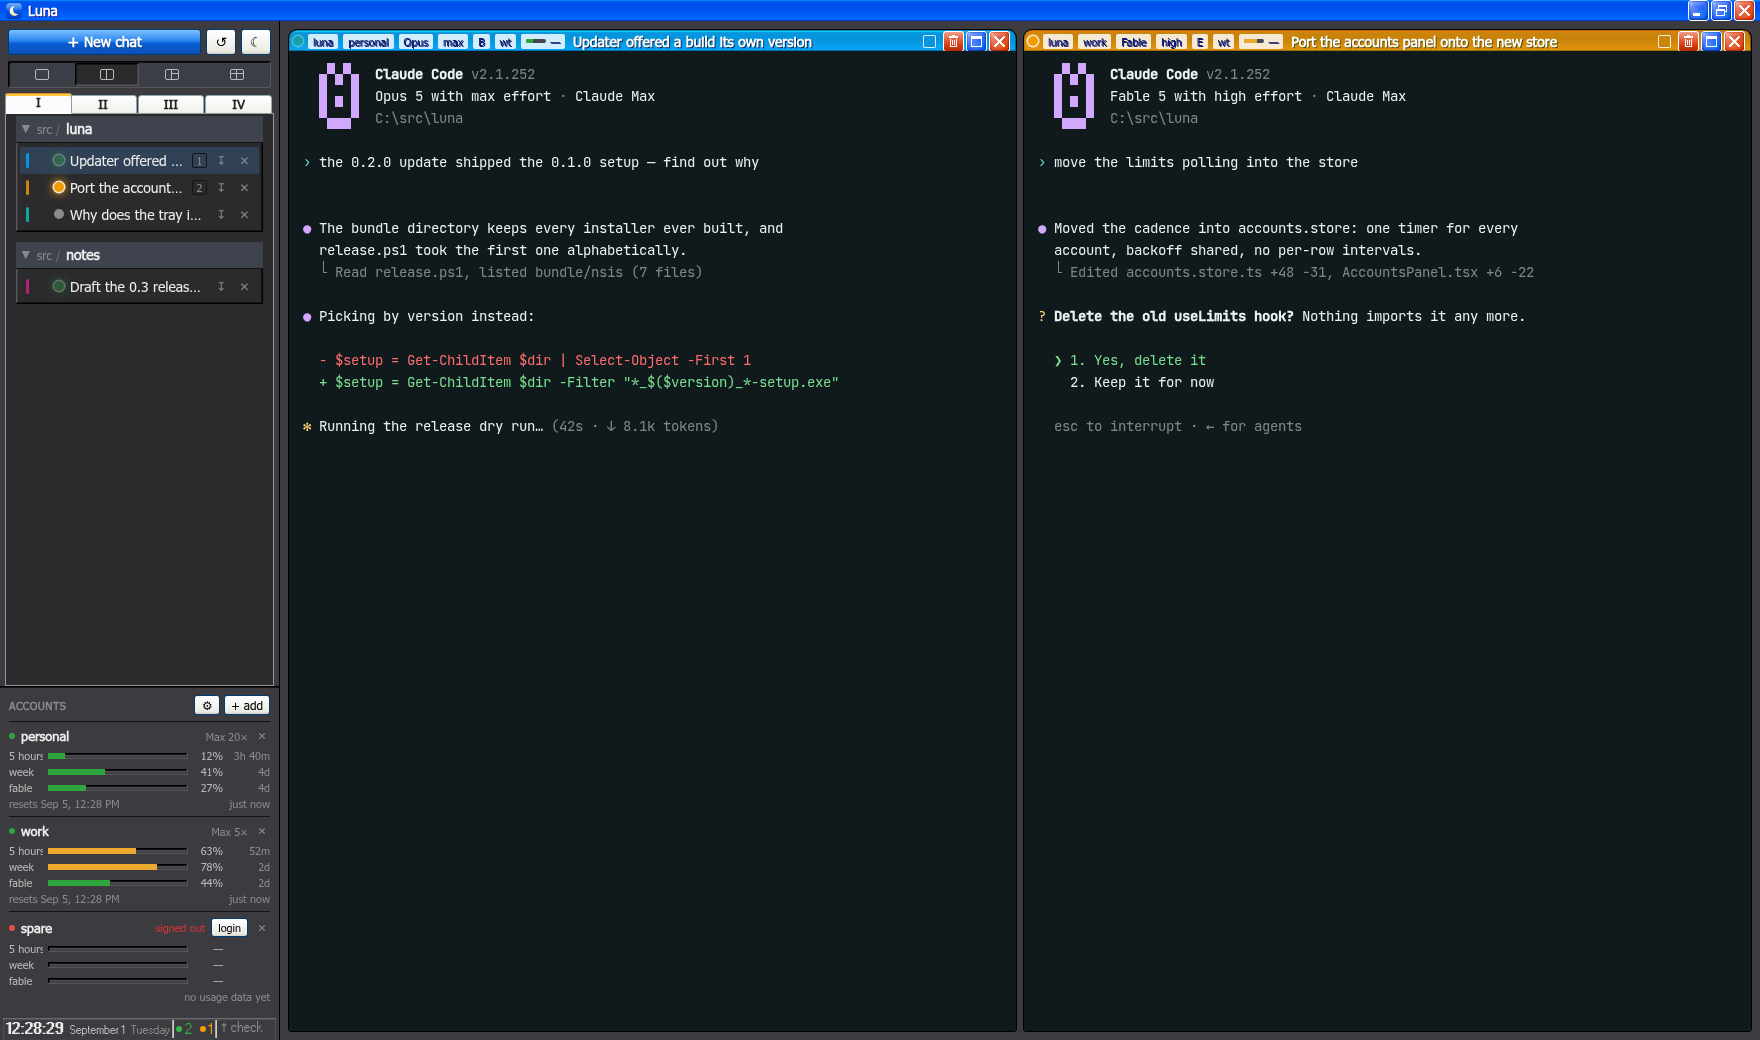
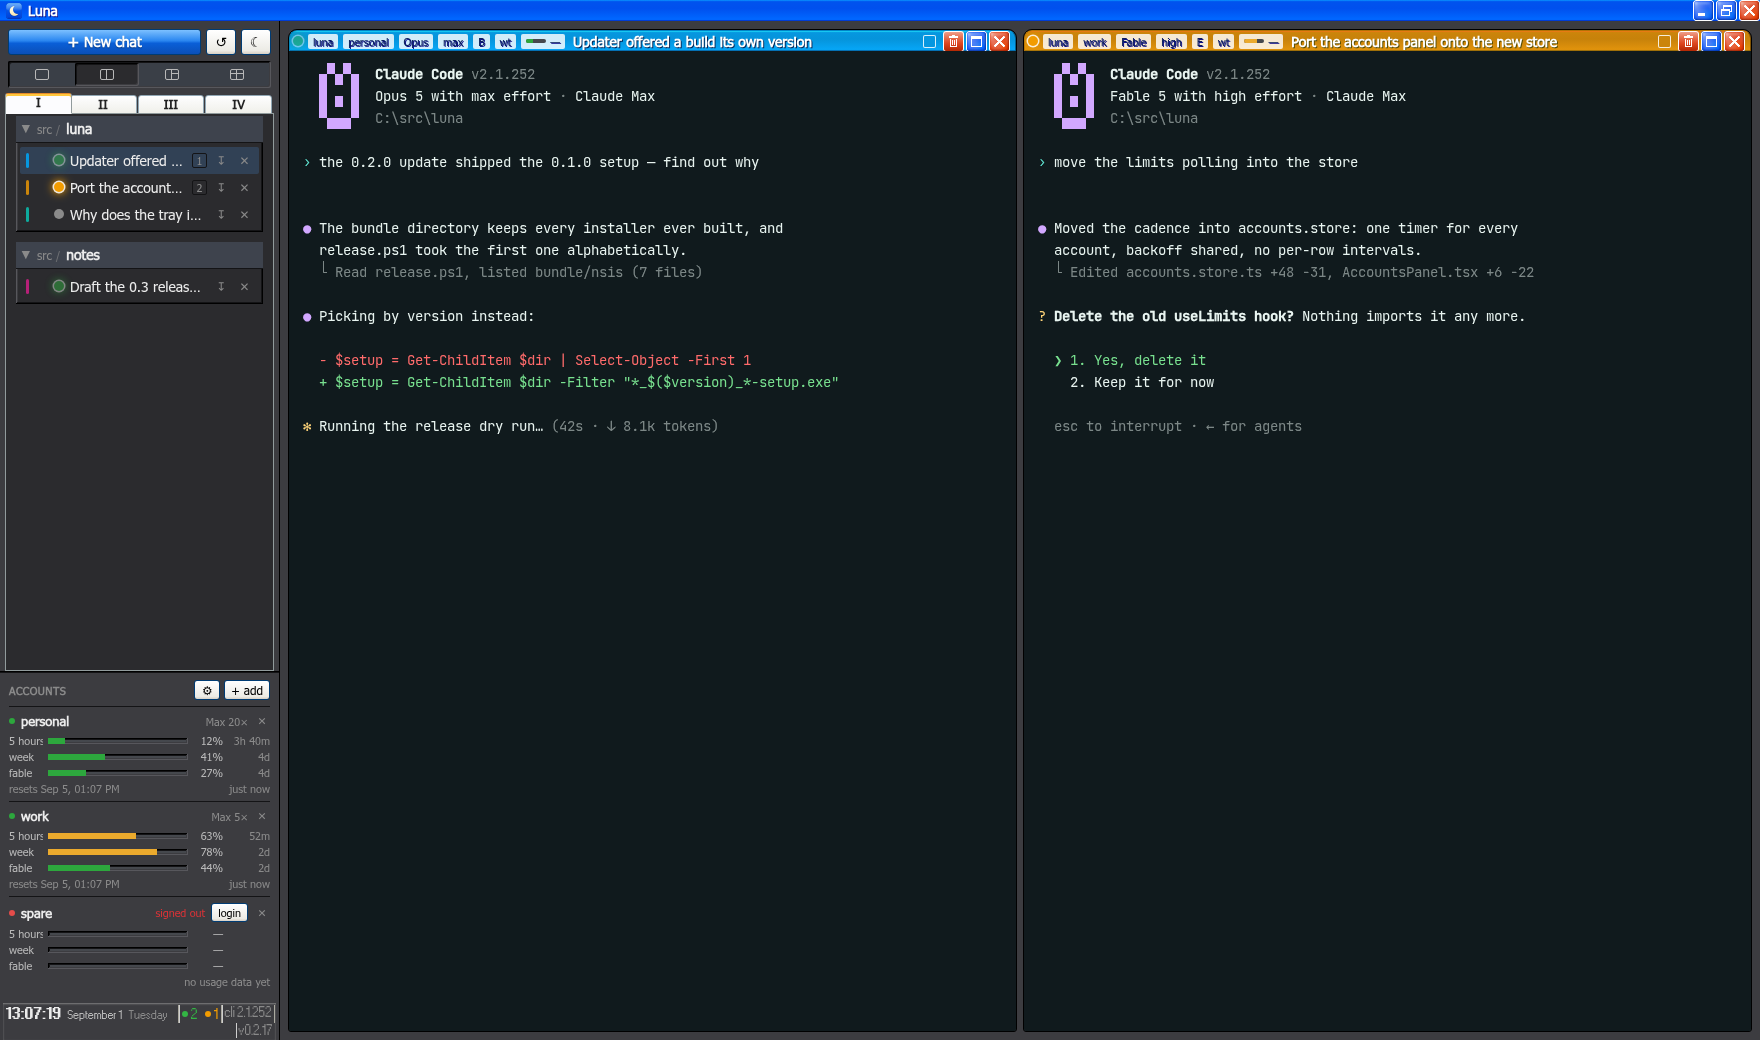
Let the fixture answer cli_status, and retake the screenshots
The CLI field draws nothing without a status to draw, so the shots had one
field fewer than the app they are pictures of — and the status bar in them
could not show the wrap it now does. The fixture answers that one command and
seeds the version readout; everything else still falls through to the caller's
own fallback, and none of it exists in a release build.

The screenshots come back with the corner controls and the wrapped footer.

Changed region(s): [[0.0, 0.6462, 0.1562, 1.0], [0.9375, 0.0, 1.0, 0.0308]]

diff --git a/src/dev/demo.ts b/src/dev/demo.ts
@@ -12,10 +12,12 @@
  */
 import type { Terminal as XTerm } from '@xterm/xterm';
 import type { Account, Chat, Folder } from '../shared/types';
+import type { CliStatusDto } from '../ipc/commands';
 import { useAccounts } from '../features/accounts/accounts.store';
 import { useChats } from '../features/chats/chats.store';
 import { useNewChat } from '../features/new-chat/newchat.store';
 import { usePanes, type Group, type Layout, type Slots } from '../features/panes/panes.store';
+import { useUpdates } from '../features/updates/updates.store';
 
 /** `?demo`, `?demo=dark`, `?demo=newchat`. */
 export type Scene = 'main' | 'dark' | 'newchat';
@@ -235,10 +237,39 @@ export function paint(term: XTerm, chatId: string) {
   if (screen) term.write(screen);
 }
 
+// ------------------------------------------------------------- ipc stand-in --
+
+const CLI: CliStatusDto = {
+  phase: 'idle',
+  version: '2.1.252',
+  path: 'C:\\src\\luna\\claude-cli\\versions\\2.1.252\\claude.exe',
+  latest: '2.1.252',
+  got: 0,
+  total: null,
+  error: null,
+  checkedAtMs: Date.now() - 42 * 60_000
+};
+
+let seeded = false;
+
+/**
+ * Answers the few commands whose emptiness would show. Without this the CLI
+ * field draws nothing in a browser, and the status bar in a screenshot has one
+ * fewer field than the app it is a picture of. Everything else keeps the
+ * caller's own fallback, and outside `?demo` this does nothing at all.
+ */
+export function answer<T>(cmd: string, fallback: T): T {
+  if (!seeded) return fallback;
+  return cmd === 'cli_status' ? (CLI as unknown as T) : fallback;
+}
+
 // ------------------------------------------------------------------ seed --
 
 export function seedDemo(scene: Scene) {
+  seeded = true;
   localStorage.setItem('luna.theme', scene === 'dark' ? 'dark' : 'light');
+  // The version readout, which in a browser has no app to ask.
+  useUpdates.setState({ current: '0.2.17', checkedAt: Date.now() - 12 * 60_000 });
 
   // The app polls for the account list and for each chat's status on a timer, and
   // in a browser both come back empty — which wiped the fixture a second after

diff --git a/src/ipc/commands.ts b/src/ipc/commands.ts
@@ -20,7 +20,13 @@ const SLOW_BUDGET_MS: Record<string, number> = {
 // In plain-browser dev (vite without tauri) all commands become no-ops so the
 // UI stays workable.
 async function call<T>(cmd: string, args?: Record<string, unknown>, fallback?: T): Promise<T> {
-  if (!tauriAvailable) return fallback as T;
+  if (!tauriAvailable) {
+    // The README fixture answers the handful of commands whose emptiness would
+    // show in a screenshot; without `?demo` it hands back the same fallback as
+    // ever. Compiled out of a release build along with the module.
+    if (import.meta.env.DEV) return (await import('../dev/demo')).answer(cmd, fallback as T);
+    return fallback as T;
+  }
   // Timed because a sync Tauri command runs on the main thread: a slow one is
   // indistinguishable from the app hanging, and this names which one it was.
   const started = performance.now();
